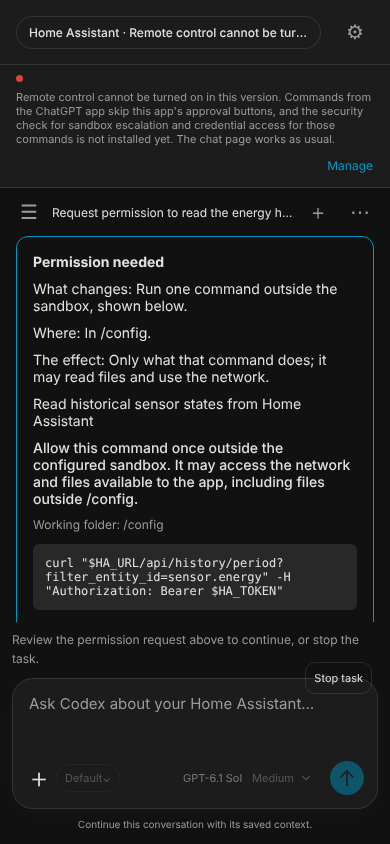
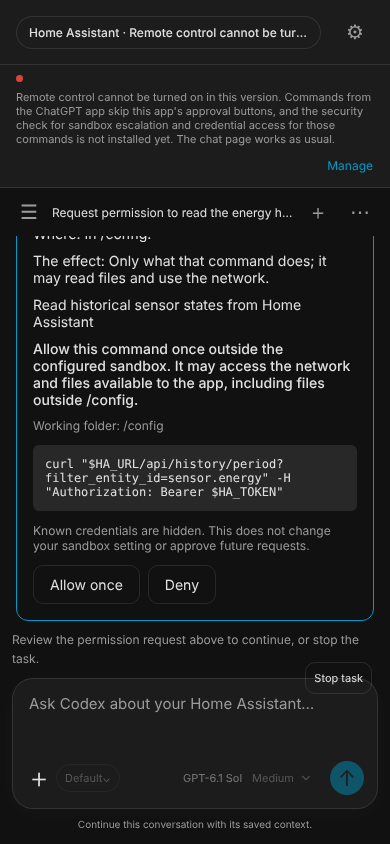
Fix the screenshot workflow and retake four screenshots
- The workflow and the local steps install websocket-client: server.py imports
  it, so the fixture did not start without it. The workflow now fails, and
  prints the fixture's log, when the page never answers.
- The phone confirm screenshots end at the card's buttons, so Allow once and
  Deny are in view; the script fails if either is hidden.
- Each confirm capture deletes its chat afterwards, so every confirm picture
  shows the same conversation list. SCREENSHOTS.md says that these pictures
  still change on every run, because they show the time of the request.
- The sample time is 12:00 UTC (07:00 in New York), so the daily 07:00
  proposal shows 07:00 as its next run.
- The sample sign-in code is covered by a plain block and the QR code is
  blurred more strongly.
- web_fixture.py picks the command with if / elif / else, and the script
  keeps page errors in one list instead of adding a property to the page.

Changed region(s): [[0.0615, 0.2773, 0.8923, 0.7085]]

diff --git a/codex-cli-worker/tests/web_fixture.py b/codex-cli-worker/tests/web_fixture.py
@@ -223,8 +223,13 @@ def main():
                     session.thread_id, session.turn_id = session_id, "preview-native"
                     file_permission = (reply or prompt).startswith("Request permission to rename")
                     hidden_permission = (reply or prompt).startswith("Request permission with hidden")
-                    # The README screenshot shows an ordinary command, without the markup the safety tests use.
-                    plain_permission = (reply or prompt).startswith("Request permission to read the energy history")
+                    if hidden_permission:
+                        command = "tool --password 'private password'"
+                    elif (reply or prompt).startswith("Request permission to read the energy history"):
+                        # The README screenshot shows an ordinary command, without the markup the safety tests use.
+                        command = 'curl "$HA_URL/api/history/period?filter_entity_id=sensor.energy" -H "Authorization: Bearer $HA_TOKEN"'
+                    else:
+                        command = "curl '$HA_URL/api/history/period' -H 'Authorization: Bearer $HA_TOKEN'\n# <img src=x onerror=alert(1)>"
                     if file_permission:
                         session.receive({"method": "item/started", "params": {
                             "threadId": session_id, "turnId": "preview-native", "item": {
@@ -233,9 +238,7 @@ def main():
                                     "kind": {"type": "update", "move_path": "/other/renamed.yaml"}}]}}})
                     session.receive({"id": 0, "method": "item/fileChange/requestApproval" if file_permission else "item/commandExecution/requestApproval", "params": {
                         "threadId": session_id, "turnId": "preview-native", "itemId": "preview-command",
-                        "command": "tool --password 'private password'" if hidden_permission
-                        else "curl \"$HA_URL/api/history/period?filter_entity_id=sensor.energy\" -H \"Authorization: Bearer $HA_TOKEN\"" if plain_permission
-                        else "curl '$HA_URL/api/history/period' -H 'Authorization: Bearer $HA_TOKEN'\n# <img src=x onerror=alert(1)>",
+                        "command": command,
                         "cwd": "/config", "reason": "Read historical sensor states from Home Assistant", "startedAtMs": 1,
                     }})
                     answered.wait(120)

diff --git a/screenshots/SCREENSHOTS.md b/screenshots/SCREENSHOTS.md
@@ -10,7 +10,7 @@ Each screenshot exists in four versions: `light` and `dark` color scheme, `deskt
 | Name | What it shows |
 |---|---|
 | `chat` | The chat page with one saved conversation open: a question about an automation and the answer that explains the change. |
-| `confirm` | A command that waits for one confirmation: what changes, where, the effect, the working folder, the command, and **Allow once** and **Deny**. |
+| `confirm` | A command that waits for one confirmation: what changes, where, the effect, the working folder, the command, and **Allow once** and **Deny**. The phone versions start lower in the card, so that both buttons are in view. |
 | `action-groups` | **Settings** > **Permissions overrides**: the five action groups and their switches. |
 | `schedule-proposal` | **Settings** > **Scheduled runs**: a schedule that an agent proposed, which stays off until you approve it, and an approved schedule. |
 | `mailbox` | **Settings** > **Local mailbox**: a message from the lead agent and the owner's reply. |
@@ -32,8 +32,12 @@ Run the **README screenshots** workflow from the **Actions** tab (it also runs w
 uploads the new files as an artifact named `screenshots`. Compare them with the files here and commit the ones that
 changed.
 
-To take them on your own computer, install the test dependencies (Python: `flask`, `pyyaml`, `requests`, `qrcode`;
-Node.js: `playwright`), then run, from the repository root:
+The `confirm` screenshots change on every run: the chat header and the conversation list show the time at which the
+script sent the request. Commit them only when something else in the picture changed. All other screenshots use a
+fixed sample date and are the same on every run unless the page changed.
+
+To take them on your own computer, install the test dependencies (Python: `flask`, `pyyaml`, `requests`, `qrcode`,
+`websocket-client`; Node.js: `playwright`), then run, from the repository root:
 
 ```sh
 python codex-cli-worker/tests/web_fixture.py &
